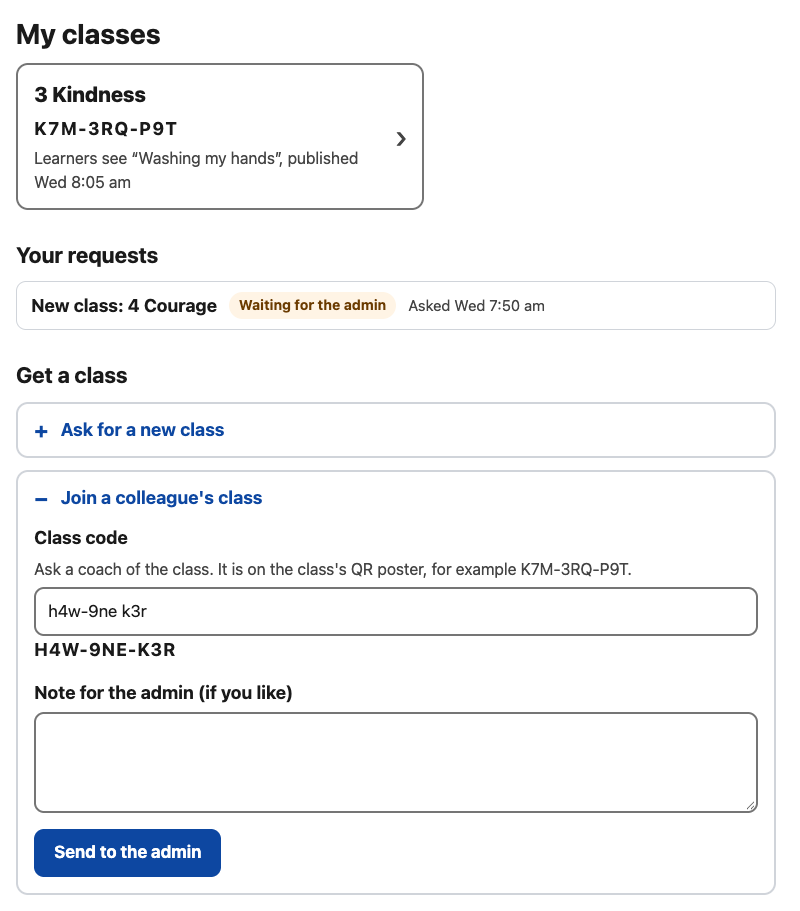
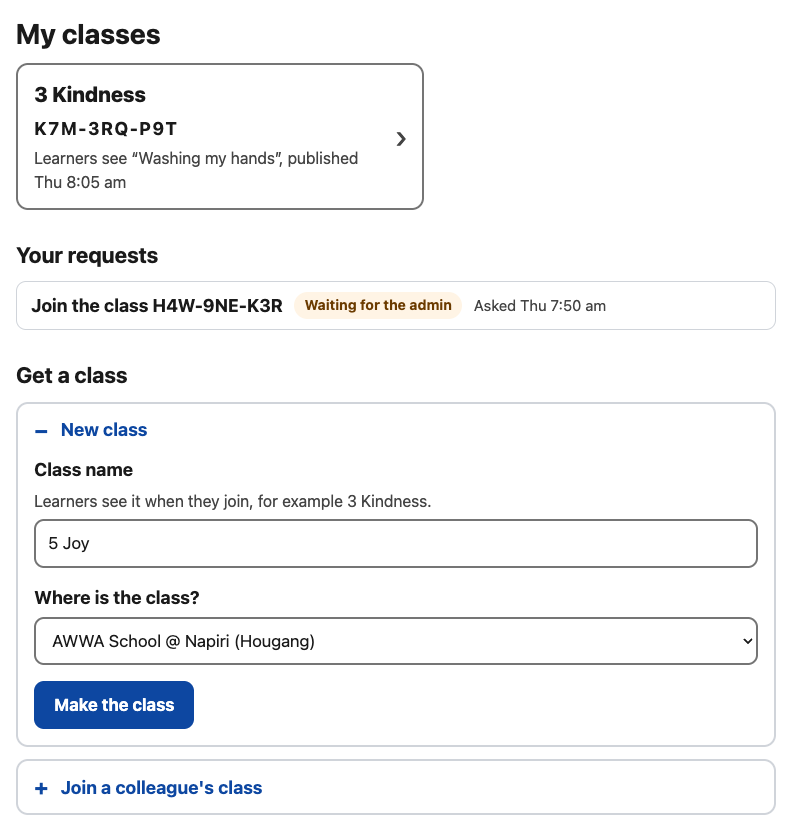
docs(guide): About you with where you work, waiting for approval, New class; the admin's approvals and institutions
Sections 3 and 11 of the coach guide, with the About you, Waiting for
approval (new), My classes and Admin screenshots reshot from the tested app,
and a new one of the institutions. Section 4: a leaked code means making a
new class.

Changed region(s): [[0.0, 0.2708, 0.9688, 0.9928], [0.0, 0.0301, 0.5312, 0.2407], [0.5, 0.1504, 0.5312, 0.1805]]

diff --git a/public/coach/guide.html b/public/coach/guide.html
@@ -31,7 +31,7 @@
       <ol>
         <li><a href="#what-this-is">What this is</a></li>
         <li><a href="#sign-in">Sign in with Google</a></li>
-        <li><a href="#get-a-class">About you, and getting a class</a></li>
+        <li><a href="#get-a-class">About you, approval, and your classes</a></li>
         <li><a href="#devices">Put the class on learners' devices</a></li>
         <li><a href="#write">Write and publish the page</a></li>
         <li><a href="#public">What you publish is public</a></li>
@@ -127,44 +127,66 @@
 
     <!-- 3 -->
     <section class="topic" id="get-a-class" aria-labelledby="get-a-class-h">
-      <h2 id="get-a-class-h"><span class="num">3.</span> About you, and getting a class
+      <h2 id="get-a-class-h"><span class="num">3.</span> About you, approval, and your classes
         <a class="here" href="#get-a-class" aria-label="Link to this section">🔗</a></h2>
 
       <h3>About you</h3>
       <p>The first time you sign in, fill in <strong>About you</strong>:
-        your name, your school or centre, and how the admin can check who
-        you are (your role, and a work email or phone number). Only you and
-        the admin see it. Change it later from <strong>About you</strong> at
-        the top.</p>
+        your name, where you work, and how the admin can check who you are
+        (your role, and a work email or phone number).</p>
+      <p>Under <strong>Where you work</strong>, tick each place where you
+        coach, for example <em>AWWA School @ Napiri</em> — up to 10. The
+        places you ticked show above the list; tap one to take it off. If
+        your place isn't there, tell the admin in the note.</p>
+      <p>Only you and the admin see About you. Change it later from
+        <strong>About you</strong> at the top.</p>
       <figure>
-        <a href="/coach/img/guide/about-you.png"><img src="/coach/img/guide/about-you.png" width="720" height="662" loading="lazy"
-          alt="About you: Your name, Organisation or school, and How can the admin check who you are, with Save and continue."></a>
-        <figcaption>About you: for the admin's check</figcaption>
+        <a href="/coach/img/guide/about-you.png"><img src="/coach/img/guide/about-you.png" width="720" height="1072" loading="lazy"
+          alt="About you: Your name; Where you work, a list of AWWA places with AWWA School @ Napiri ticked and shown above the list; How can the admin check who you are; Save and continue."></a>
+        <figcaption>About you: who you are and where you work</figcaption>
       </figure>
 
-      <h3>Ask for a class</h3>
+      <h3>Wait for the admin</h3>
+      <p>Before you can make a class, write a page or add a picture, the
+        admin checks who you are and where you work — for example by
+        calling your school. Until then you see <strong>Waiting for
+        approval</strong>. You can close the page: when the admin approves
+        you, it changes to <strong>My classes</strong> by itself, or the next
+        time you sign in.</p>
+      <figure class="phone">
+        <img src="/coach/img/guide/waiting.png" width="780" height="1688" loading="lazy"
+          alt="Waiting for approval on a phone: what happens next, in three steps, and what the admin sees — name, where you work, how to check you — with Change About you.">
+        <figcaption>Waiting for approval</figcaption>
+      </figure>
+      <ul>
+        <li>If the admin does not approve you, you see <strong>Not
+          approved</strong>. Contact the admin if you think it is a
+          mistake.</li>
+        <li>If you later change where you work, you stay approved. The admin
+          sees that you changed it.</li>
+      </ul>
+
+      <h3>Make a class, or join one</h3>
       <p>On <strong>My classes</strong>, under <strong>Get a class</strong>:</p>
       <ul>
-        <li><strong>Ask for a new class</strong>: give its name, for example
-          <em>3 Kindness</em>. Learners see the name when they join.</li>
+        <li><strong>New class</strong>: give its name, for example
+          <em>3 Kindness</em> (learners see the name when they join), choose
+          where the class is — one of your places — and tap <strong>Make the
+          class</strong>. It is ready at once, with a new random 9-character
+          code such as <code>K7M-3RQ-P9T</code>; the class name is only a
+          label.</li>
         <li><strong>Join a colleague's class</strong>: type its class code.
           Ask a coach of the class; the code is on the class's QR poster.
-          Capitals, dashes and spaces don't matter.</li>
+          Capitals, dashes and spaces don't matter. Tap <strong>Send to the
+          admin</strong>. The request shows <strong>Waiting for the
+          admin</strong> until the admin has checked that you really coach
+          that class; then the class appears on My classes.</li>
       </ul>
-      <p>Tap <strong>Send to the admin</strong>. The request shows
-        <strong>Waiting for the admin</strong> until it is decided.</p>
       <figure>
-        <a href="/coach/img/guide/my-classes.png"><img src="/coach/img/guide/my-classes.png" width="800" height="911" loading="lazy"
-          alt="My classes: the class 3 Kindness with its code K7M-3RQ-P9T and what learners see. Your requests: New class 4 Courage, waiting for the admin. Get a class: Ask for a new class, and Join a colleague's class with a class code typed in and Send to the admin."></a>
+        <a href="/coach/img/guide/my-classes.png"><img src="/coach/img/guide/my-classes.png" width="800" height="831" loading="lazy"
+          alt="My classes: the class 3 Kindness with its code K7M-3RQ-P9T and what learners see. Your requests: Join the class H4W-9NE-K3R, waiting for the admin. Get a class: New class, with the name 5 Joy, Where is the class? AWWA School @ Napiri (Hougang), and Make the class; below it, Join a colleague's class."></a>
         <figcaption>My classes: your classes, your requests, and Get a class</figcaption>
       </figure>
-
-      <h3>The admin checks, then approves</h3>
-      <p>The admin approves each coach <strong>for each class</strong>, only
-        after checking that you really teach or coach that class (for
-        example, by calling your school). Once approved, the class appears on
-        My classes. A new class gets a random 9-character code, such as
-        <code>K7M-3RQ-P9T</code>; the class name is only a label.</p>
       <p>Every coach of a class can write, publish and change its pages.</p>
       <p class="to-top"><a href="#contents">Back to contents</a></p>
     </section>
@@ -216,7 +238,7 @@
       <ul>
         <li>Share the code only with your class's families. Anyone with the
           code can read what you publish (see <a href="#public">section 6</a>).</li>
-        <li>If the code gets out, ask for a new class: it gets a new code, and
+        <li>If the code gets out, make a new class: it gets a new code, and
           the devices are set up again with the new poster. The admin can then
           suspend the old class.</li>
         <li>A school-managed iPad may block Google's servers. Ask the school to
@@ -658,33 +680,47 @@
         <a class="here" href="#admin" aria-label="Link to this section">🔗</a></h2>
 
       <p>The admin sees <strong>Admin</strong> at the top of the coach app.
-        Admins are set up by the owner of Simplify, not in the app.</p>
+        Admins are set up by the owner of Simplify, not in the app. An admin
+        approves their own About you like anyone else's.</p>
 
-      <h3>Requests</h3>
-      <p>Each request shows the coach's name and email, their organisation,
-        <strong>How to check them</strong>, and their note.
-        <strong>Check before approving</strong>, for example by calling the
-        school office, and approve each coach for each class.</p>
-      <figure>
-        <a href="/coach/img/guide/admin-requests.png"><img src="/coach/img/guide/admin-requests.png" width="880" height="562" loading="lazy"
-          alt="Admin: Requests waiting (2). New class: 5 Joy, and Join K7M-3RQ-P9T (3 Kindness), each with the coach, organisation, how to check them, when asked, and Approve and Decline buttons."></a>
-        <figcaption>Requests waiting for a decision</figcaption>
-      </figure>
+      <h3>Coaches waiting for approval</h3>
+      <p>First on the screen: everyone who has filled in About you and is
+        waiting, with their name, email, where they work, how to check them,
+        and when they asked. <strong>Check before approving</strong>, for
+        example by calling the school or centre: until you approve someone,
+        they can't make classes, write pages, add pictures or use the helper.</p>
       <ul>
-        <li><strong>Approve</strong> a new class: it gets a new random code.
-          Approve a join: the coach can work on that class at once. Approve
-          has no Undo; to take it back, suspend the coach or the class.</li>
-        <li><strong>Decline</strong>: the coach sees <em>Not approved</em>.
-          Undo on the message.</li>
+        <li><strong>Approve</strong>: they can use Simplify at once — their
+          own screen changes to My classes by itself.</li>
+        <li><strong>Decline</strong>: they see <em>Not approved</em> and are
+          asked to contact you.</li>
+        <li>Both have <strong>Undo</strong> on the message.</li>
       </ul>
+
+      <h3>Requests to join a class</h3>
+      <p>A coach who works with a colleague asks to join the colleague's
+        class. Each request shows the class, the coach, where they work,
+        where the class is, and their note. Approve a coach for a class only
+        after checking they really coach it. <strong>Approve</strong>: they
+        can work on that class at once; there is no Undo — to take it back,
+        suspend the coach. <strong>Decline</strong>: Undo on the message.</p>
+      <figure>
+        <a href="/coach/img/guide/admin-requests.png"><img src="/coach/img/guide/admin-requests.png" width="880" height="916" loading="lazy"
+          alt="Admin: Coaches waiting for approval (1): Mr Lim, with email, works at AWWA School @ Napiri, how to check them, when asked, Approve and Decline. Requests to join a class (1): Join K7M-3RQ-P9T (3 Kindness), with the coach, where they work, where the class is, how to check them, their note, Approve and Decline."></a>
+        <figcaption>Coaches waiting for approval, and a request to join a class</figcaption>
+      </figure>
 
       <h3>Coaches, classes and limits</h3>
       <figure>
-        <a href="/coach/img/guide/admin-classes.png"><img src="/coach/img/guide/admin-classes.png" width="880" height="1003" loading="lazy"
-          alt="Admin: Coaches (Ms Tan and Mr Lim, each with email, organisation, how to check them, classes, and Suspend). Classes: 3 Kindness with its code, what learners see, its coaches, Suspend the class and Take the page down. Monthly limits: helper requests per coach per month 200, videos per coach per month 5, Save the limits."></a>
+        <a href="/coach/img/guide/admin-classes.png"><img src="/coach/img/guide/admin-classes.png" width="880" height="1110" loading="lazy"
+          alt="Admin: Coaches — Ms Tan and Mr Lim, both Approved, each with email, where they work, how to check them, classes, when decided and Suspend; Mr Lim's places are marked Changed, after approval. Classes: 3 Kindness with its code, its institution AWWA School @ Napiri, what learners see, its coaches, Suspend the class and Take the page down. Monthly limits: helper requests per coach per month 200, videos per coach per month 5, Save the limits."></a>
         <figcaption>Coaches, classes and monthly limits</figcaption>
       </figure>
       <ul>
+        <li><strong>Coaches</strong>: each shows whether they are approved,
+          waiting or not approved. <em>Changed …, after approval</em> means
+          they changed where they work after you approved them. A coach you
+          declined can be approved later.</li>
         <li><strong>Suspend</strong> a coach: they can't change anything in
           any class, or use the helper or videos. <strong>Let back in</strong>
           undoes it.</li>
@@ -699,8 +735,25 @@
           counted in Singapore months. Helper requests (the page helper and
           video planning) and videos, each about US$0.80. Save the limits;
           Undo on the message.</li>
-        <li>A class code that got out: approve a new class for the coach, then
+        <li>A class code that got out: the coach makes a new class, then you
           suspend the old one once the devices have the new code.</li>
+      </ul>
+
+      <h3>Institutions</h3>
+      <p>The places coaches choose from, grouped by organisation — one entry
+        for each centre.</p>
+      <figure>
+        <a href="/coach/img/guide/admin-institutions.png"><img src="/coach/img/guide/admin-institutions.png" width="880" height="974" loading="lazy"
+          alt="Admin: Institutions (4 in the list). The Add an institution form with Name AWWA Home and Day Activity Centre, Organisation AWWA, Type Day activity centre, Area Pasir Ris, Add and Cancel. Below, the AWWA places, each with its area and type, Edit and Retire."></a>
+        <figcaption>The institutions coaches choose from</figcaption>
+      </figure>
+      <ul>
+        <li><strong>Add an institution</strong>: its name, organisation, and
+          if you like its type and area.</li>
+        <li><strong>Edit</strong> fixes a name or an area.</li>
+        <li><strong>Retire</strong> a place that has closed: coaches no
+          longer see it, but classes and coaches that chose it are not
+          affected. <strong>Bring back</strong> undoes it.</li>
       </ul>
       <p class="to-top"><a href="#contents">Back to contents</a></p>
     </section>
@@ -718,7 +771,7 @@
           </thead>
           <tbody>
             <tr><td>Your sign-in (Google account email and name)</td><td>Firebase Authentication (Google), in the US</td><td>You and the admin</td></tr>
-            <tr><td>About you, and your requests</td><td>Singapore</td><td>You and the admin</td></tr>
+            <tr><td>About you (including where you work), and your requests</td><td>Singapore</td><td>You and the admin</td></tr>
             <tr><td>Draft pages, picture words, video plans</td><td>Singapore</td><td>The class's coaches and the admin</td></tr>
             <tr><td>The published page</td><td>Singapore</td><td><strong>Anyone with the class code</strong></td></tr>
             <tr><td>Pictures, and approved videos</td><td>Singapore</td><td>Anyone with the exact address, which a published page gives</td></tr>
